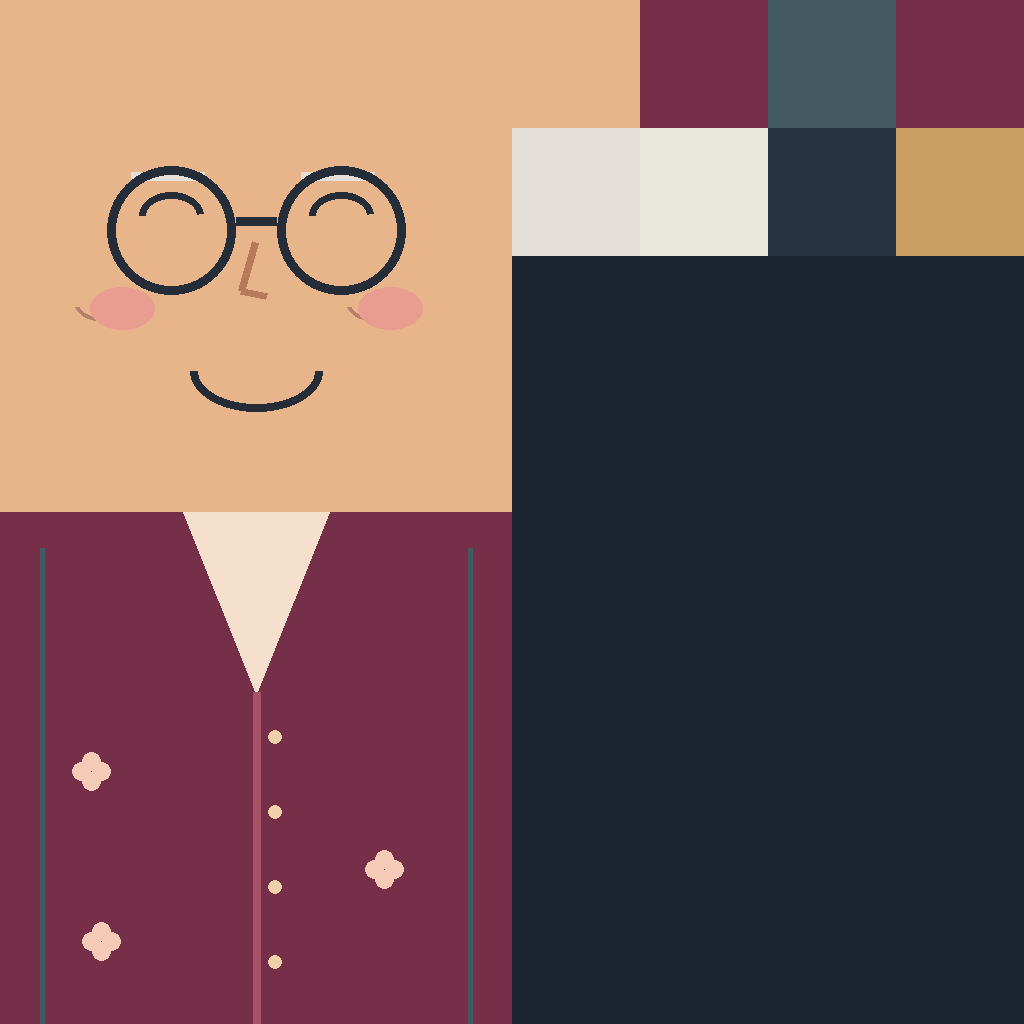
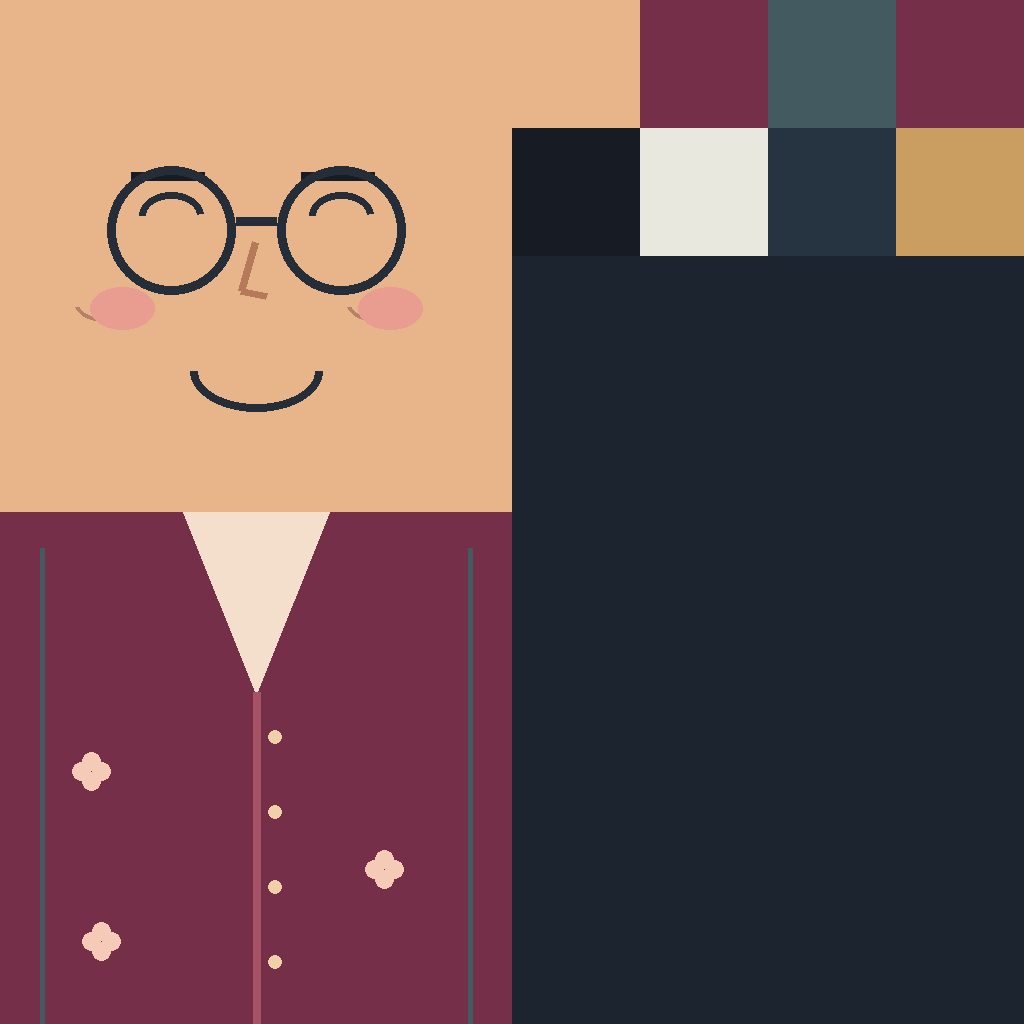
Give BOT 5 black hair while keeping wine clothing

Changed region(s): [[0.5, 0.125, 0.625, 0.25], [0.3125, 0.1562, 0.3438, 0.1875], [0.1562, 0.1562, 0.1875, 0.1875]]

diff --git a/package_cloudcourt_hair_v16.py b/package_cloudcourt_hair_v16.py
@@ -1,0 +1,110 @@
+import hashlib,json,pathlib,struct,zipfile,subprocess,shutil
+R=pathlib.Path(__file__).resolve().parent
+OUT=R/'distribution/Cloudcourt-v16-cabelo-preto'
+OUT.mkdir(parents=True,exist_ok=True)
+H=lambda data: hashlib.sha256(data).hexdigest()
+names=['GameAssembly.dll']+['VolleyballFever_Data/'+n for n in ['resources.assets','level1','level2','level3','sharedassets1.assets','sharedassets3.assets','sharedassets0.assets','level0']]
+def original_path(name):
+    basename=pathlib.Path(name).name
+    return R/('backup' if basename in ['GameAssembly.dll','resources.assets'] else 'versions/v13-antes-personagens' if basename in ['sharedassets0.assets','level0'] else 'versions/v10-antes-mapas')/basename
+def delta(src,dst):
+    blocks=[(i,dst[i:i+4096]) for i in range(0,len(dst),4096) if src[i:i+4096]!=dst[i:i+4096]]
+    result=bytearray(src[:len(dst)]);result.extend(bytes(max(0,len(dst)-len(result))))
+    for offset,data in blocks:result[offset:offset+len(data)]=data
+    assert result==dst
+    return struct.pack('<qi',len(dst),len(blocks))+b''.join(struct.pack('<qi',i,len(data))+data for i,data in blocks)
+manifest={'version':'Cloudcourt-v16-cabelo-preto','steam_build':9216628,'files':[]}
+for i,name in enumerate(names):
+    src=original_path(name).read_bytes();dst=(R/'working'/name).read_bytes()
+    record={'path':name,'original_sha256':H(src),'modified_sha256':H(dst)}
+    for direction,a,b in [('forward',src,dst),('reverse',dst,src)]:
+        patch=delta(a,b);filename=f'{i}-{direction}.bin'
+        (OUT/filename).write_bytes(patch)
+        record[direction]={'name':filename,'sha256':H(patch)}
+    prior=(R/'versions/cloudcourt-v16-antes-cabelo'/pathlib.Path(name).name).read_bytes()
+    if H(prior) not in [H(src),H(dst)]:
+        record['previous_sha256']=H(prior)
+        for key,direction,a,b in [('upgrade','forward',prior,dst),('previous_reverse','reverse',prior,src)]:
+            filename=f'{20+i}-{direction}.bin';data=delta(a,b);(OUT/filename).write_bytes(data);record[key]={'name':filename,'sha256':H(data)}
+    manifest['files'].append(record)
+(OUT/'patch.json').write_text(json.dumps(manifest,indent=2),encoding='utf-8')
+(OUT/'Aplicar-mod.ps1').write_text((R/'Apply-Complete-Mod.ps1').read_text(encoding='utf-8'),encoding='utf-8-sig')
+for name,flag in [('Instalar.cmd',''),('Restaurar.cmd',' -Restore')]:
+    (OUT/name).write_text('@echo off\npowershell.exe -NoProfile -ExecutionPolicy Bypass -File "%~dp0Aplicar-mod.ps1"'+flag+'\npause\n',encoding='ascii')
+(OUT/'LEIA-ME.txt').write_text("""CLOUDCOURT VR v16 - CABELO PRETO - Steam build 9216628
+
+Extraia o ZIP inteiro. Feche o jogo e execute Instalar.cmd.
+Instala sobre o jogo original compativel ou o checkpoint Cloudcourt v16.
+Abra pela Steam. Para ver o cabelo novo, instale este pacote em cada PC.
+Escolham a mesma regiao, modo e sala.
+
+Nova identidade Cloudcourt VR, fonte Baloo 2, menus arredondados,
+quadra azul/vermelha, antenas visuais e placares de parede no indoor.
+Design editavel: https://www.figma.com/design/1sIgjKcMItHmbLIu1dnch0?node-id=2-24
+
+Limites simetricos na rede. Levantamentos para uma janela de ataque
+perto da rede; segundo toque do player usa os DOIS GRABs e luvas abertas.
+Recepcao assistida no primeiro toque de cada posse do time.
+Mais altura no salto e trajetoria de ataque dos bots.
+High five online durante toda a partida e lobby, com contato varrido.
+A ou trigger interagem com os menus.
+
+No menu da partida online: CHANGE TEAMS e quatro skins.
+A troca ocupa a vaga de um bot no outro time; respeita a capacidade.
+Durante o rally, aplica ao fim do ponto. Skin escolhida e sincronizada.
+As novas maos sao luvas cartoon, com modelo aberto para levantar.
+Tela de boas-vindas, convite ao Discord e Daily Challenge removidos.
+
+Alteracao visual validada por leitura dos assets e comparacao das texturas.
+Gameplay e protocolo permanecem iguais ao checkpoint v16.
+Ainda precisa de playtest real no Quest 3 e entre dois PCs.
+menu-figma.png e uma proposta visual editavel exportada; nao e captura VR.
+
+Restaurar.cmd volta os nove arquivos ao original. Nao apaga saves.
+Os ZIPs anteriores foram preservados.
+Fonte Baloo 2: licenca Baloo2-OFL.txt incluida.
+""",encoding='utf-8-sig')
+
+# Exercise the shipped PowerShell installer on a separate copy, never the live game.
+fixture=R/'tools/complete-installer-test';fixture.mkdir(parents=True,exist_ok=True)
+(fixture/'VolleyballFever.exe').write_bytes(b'fixture, not executable')
+for name in names:
+    dest=fixture/name;dest.parent.mkdir(parents=True,exist_ok=True);shutil.copyfile(original_path(name),dest)
+def run(restore=False,expected=0):
+    result=subprocess.run(['powershell.exe','-NoProfile','-ExecutionPolicy','Bypass','-File',str(OUT/'Aplicar-mod.ps1'),'-GameDirectory',str(fixture)]+(['-Restore'] if restore else []),capture_output=True,text=True)
+    assert result.returncode==expected,(result.stdout,result.stderr)
+    return result.stdout.strip()
+def check(key):
+    for f in manifest['files']:assert H((fixture/f['path']).read_bytes())==f[key],f['path']
+results=[]
+results.append(run());check('modified_sha256')
+results.append(run());check('modified_sha256')
+results.append(run(True));check('original_sha256')
+results.append(run(True));check('original_sha256')
+# Upgrade from complete v15 checkpoint.
+for name in names:shutil.copyfile(R/'versions/cloudcourt-v16-antes-cabelo'/pathlib.Path(name).name,fixture/name)
+results.append(run());check('modified_sha256')
+results.append(run(True));check('original_sha256')
+# Reject unknown files before modifying any other game file.
+bad=fixture/names[-1];bad.write_bytes(bad.read_bytes()+b'incompatible')
+before={n:H((fixture/n).read_bytes()) for n in names}
+results.append(run(expected=1))
+assert before=={n:H((fixture/n).read_bytes()) for n in names}
+shutil.copyfile(original_path(names[-1]),bad)
+# Reject damaged delta before modifying files, and restore package afterward.
+patch=OUT/manifest['files'][-1]['forward']['name'];saved=patch.read_bytes()
+try:
+    patch.write_bytes(saved+b'corrupted')
+    results.append(run(expected=1));check('original_sha256')
+finally:patch.write_bytes(saved)
+shutil.copyfile(R/'CHECKPOINT-V16-CABELO.md',OUT/'CHECKPOINT-V16-CABELO.md')
+shutil.copyfile(R/'assets/cloudcourt-v16/Baloo2-OFL.txt',OUT/'Baloo2-OFL.txt')
+shutil.copyfile(R/'CLOUDCOURT-GAME-DESIGN.md',OUT/'CLOUDCOURT-GAME-DESIGN.md')
+archive=R/'distribution/Cloudcourt-v16-cabelo-preto.zip'
+with zipfile.ZipFile(archive,'w',zipfile.ZIP_DEFLATED) as z:
+    for file in sorted(OUT.iterdir()):z.write(file,'Cloudcourt-v16-cabelo-preto/'+file.name)
+    for file in sorted((R/'assets/cloudcourt-v16').glob('*.png')):z.write(file,'Cloudcourt-v16-cabelo-preto/Previa-texturas/'+file.name)
+with zipfile.ZipFile(archive) as z:assert z.testzip() is None
+report={'zip':str(archive),'bytes':archive.stat().st_size,'sha256':H(archive.read_bytes()),'files':len(names),'checks':results}
+(R/'analysis/complete-package-v16-hair-validation.json').write_text(json.dumps(report,indent=2),encoding='utf-8')
+print(json.dumps(report,indent=2))

diff --git a/update_lady_hair_v16.py b/update_lady_hair_v16.py
@@ -1,0 +1,75 @@
+"""Recolor only BOT 5's hair palette and eyebrows in the installed v16 assets."""
+from pathlib import Path
+import hashlib, json, shutil, sys, importlib.util
+
+R = Path(__file__).resolve().parent
+sys.path.insert(0, str(R / 'tools/python'))
+import UnityPy
+import numpy as np
+from PIL import Image
+
+H = lambda data: hashlib.sha256(data).hexdigest()
+baseline = R / 'versions/cloudcourt-v16-antes-cabelo'
+manifest = json.loads((R / 'distribution/Cloudcourt-v16-checkpoint/patch.json').read_text())
+live = Path('C:/APPS/STEAM/steamapps/common/Volleyball')
+baseline.mkdir(parents=True, exist_ok=True)
+for record in manifest['files']:
+    source = R / 'working' / record['path']
+    target = baseline / Path(record['path']).name
+    if target.exists():
+        assert H(target.read_bytes()) == record['modified_sha256']
+    else:
+        assert H(source.read_bytes()) == record['modified_sha256'], record['path']
+        assert H((live / record['path']).read_bytes()) == record['modified_sha256'], record['path']
+        shutil.copyfile(source, target)
+
+source = R / 'create_puloviva_characters.py'
+if not (baseline / source.name).exists():
+    shutil.copyfile(source, baseline / source.name)
+    for image in (R / 'assets/cloudcourt-v16').glob('*.png'):
+        shutil.copyfile(image, baseline / image.name)
+text = source.read_text(encoding='utf-8')
+text = text.replace("'#342b27','#e4dfd9','#f1f0e9'", "'#342b27','#171b24','#f1f0e9'")
+text = text.replace('White hair is geometry;', 'Hair is geometry;')
+source.write_text(text, encoding='utf-8')
+spec = importlib.util.spec_from_file_location('cloudcourt_characters', source)
+module = importlib.util.module_from_spec(spec)
+spec.loader.exec_module(module)
+assert module.HAIRS[4] == '#171b24'
+assert module.SHIRTS[4] == module.SHOES[4] == '#762f49'
+
+path = R / 'working/VolleyballFever_Data/sharedassets0.assets'
+asset = UnityPy.load(str(baseline / path.name)).file
+before = {i: H(o.get_raw_data()) for i, o in asset.objects.items()}
+texture_ids = set()
+for obj in asset.objects.values():
+    if obj.type.name != 'Material':
+        continue
+    data = obj.read_typetree()
+    if not data['m_Name'].startswith(('SimpleCitizens_Grandma_', 'SimpleCitizens_Cheerleader_')):
+        continue
+    tex = next(v['m_Texture'] for k, v in data['m_SavedProperties']['m_TexEnvs'] if k == '_MainTex')
+    assert tex['m_FileID'] == 0
+    texture_ids.add(tex['m_PathID'])
+assert texture_ids
+for i in texture_ids:
+    texture = asset.objects[i].read()
+    texture.set_image(module.ATLASES[4], mipmap_count=1)
+    texture.save()
+path.write_bytes(asset.save())
+result = UnityPy.load(str(path)).file
+changed = {i for i, o in result.objects.items() if H(o.get_raw_data()) != before[i]}
+assert changed == texture_ids, (changed, texture_ids)
+for i in texture_ids:
+    actual = np.array(result.objects[i].read().image.convert('RGB'))
+    assert np.array_equal(actual, np.array(module.ATLASES[4]))
+for image in (R / 'assets/cloudcourt-v16').glob('*.png'):
+    if image.name not in {'bot-05-atlas.png', 'bot-05-rosto.png', 'bot-05-modelo.png', 'bots-visuais.png'}:
+        assert image.read_bytes() == (baseline / image.name).read_bytes(), image.name
+report = {'checkpoint': 'Cloudcourt-v16-cabelo-preto', 'changed_texture_ids': sorted(changed),
+          'other_unity_objects_unchanged': len(before) - len(changed),
+          'hair': '#171b24', 'shirt_and_shoes': '#762f49',
+          'scope': 'Shared bot appearance used by solo and online; no protocol or gameplay changes.',
+          'asset_sha256': H(path.read_bytes())}
+(R / 'analysis/v16-hair-validation.json').write_text(json.dumps(report, indent=2), encoding='utf-8')
+print(json.dumps(report, indent=2))

diff --git a/create_puloviva_characters.py b/create_puloviva_characters.py
@@ -13,7 +13,7 @@ A=R/'assets/cloudcourt-v16';A.mkdir(parents=True,exist_ok=True)
 OUT=R/'characters-v16';OUT.mkdir(exist_ok=True)
 BASE=R/'versions/v13-antes-personagens'
 SKINS=['#e9b98d','#f0c5a6','#b98055','#f0c3a2','#e7b589','#744a39','#edbb9b']
-HAIRS=['#171b24','#5a3929','#30261e','#342b27','#e4dfd9','#f1f0e9','#392820']
+HAIRS=['#171b24','#5a3929','#30261e','#342b27','#171b24','#f1f0e9','#392820']
 SHIRTS=['#171d27','#f1f0e9','#537c79','#404d65','#762f49','#263b4b','#426178']
 PANTS=['#141922','#20242c','#aa906c','#293e59','#435a61','#29323b','#aa9276']
 SHOES=['#2466d3','#141a20','#624a38','#f0e6d6','#762f49','#4c3329','#293a49']
@@ -49,7 +49,7 @@ def face(n,emoji=False):
         d.rectangle((0,0,512,72),fill=hair)
         for x in range(16,512,48):d.ellipse((x-33,23,x+39,101+(x%3)*4),fill=hair)
     elif n==3:d.rectangle((0,0,512,65),fill=hair);d.rectangle((0,0,55,480),fill=hair);d.rectangle((457,0,512,480),fill=hair)
-    elif n in (4,5):pass # White hair is geometry; no painted arc across the face.
+    elif n in (4,5):pass # Hair is geometry; no painted arc across the face.
     else:d.polygon([(0,0),(512,0),(512,76),(344,50),(103,116),(0,79)],fill=hair)
     for x in (171,341):
         if n==4:d.arc((x-32,192,x+32,239),180,355,fill=ink,width=7)

diff --git a/README.md b/README.md
@@ -1,5 +1,7 @@
 # Cloudcourt VR — current v16 checkpoint
 
+Latest visual update: BOT 5 now has black hair, retaining her wine shirt and shoes. See [CHECKPOINT-V16-CABELO.md](CHECKPOINT-V16-CABELO.md). The updated installer is generated by `package_cloudcourt_hair_v16.py` and accepts the original compatible game or Cloudcourt v16. Online protocol is unchanged.
+
 Cartoon VR volleyball mod, rebuilt from the explicitly selected **v15-rostos** baseline. Current design: https://www.figma.com/design/1sIgjKcMItHmbLIu1dnch0?node-id=2-24 . See [CHECKPOINT-V16.md](CHECKPOINT-V16.md) and [CLOUDCOURT-GAME-DESIGN.md](CLOUDCOURT-GAME-DESIGN.md).
 
 This checkpoint uses the **Cloudcourt-2v2-v16 / Cloudcourt-4v4-v16** room namespaces. Previous experiments in this repository remain in history and other files; they are not this release. Do not mix their DLLs, generated assets, or installers with this checkpoint.

diff --git a/CHECKPOINT-V16-CABELO.md b/CHECKPOINT-V16-CABELO.md
@@ -1,0 +1,9 @@
+# Cloudcourt VR v16 - cabelo preto
+
+A senhora asiatica (BOT 5) agora tem cabelo preto. Camisa e tenis vinho preservados. A textura compartilhada vale para solo e online; todos os PCs precisam instalar o pacote para ver a mudanca.
+
+Somente a textura do personagem foi alterada no jogo. Modelos, fisica, menus e protocolo online da v16 permanecem iguais. Backup completo em versions/cloudcourt-v16-antes-cabelo.
+
+Validacao: recarregar o asset Unity e comparar cada objeto; apenas as texturas da senhora podem mudar. Previa PNG regenerada do mesmo modelo e atlas. Instalador testado separadamente sobre original e v16, com restauracao, repeticao e recusa de arquivos danificados.
+
+Pacote: Cloudcourt-v16-cabelo-preto.zip. Requer instalacao original compativel ou Cloudcourt-v16-checkpoint. Os ZIPs anteriores foram preservados. Nao houve novo teste VR para esta alteracao visual.
